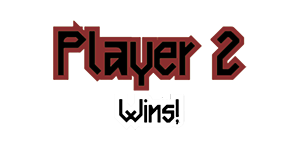
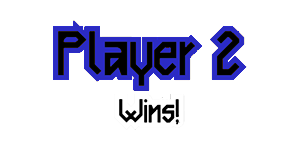
(#60) made the player 2 wins screen highlight player 2 in blue, and made player 1 red, and shoot red bullets, and player 2 blue, and shoot blue bullets

Changed region(s): [[0.15, 0.1333, 0.69, 0.6133], [0.69, 0.16, 0.84, 0.5333]]

diff --git a/area.py b/area.py
@@ -330,12 +330,12 @@ class Window(QGraphicsScene):
         self.removeItem(self.player)
 
         # player 1 is one more pixel to the right so they line up better at the start
-        self.player1 = player.player("Images/fighter-blue.png")
+        self.player1 = player.player("Images/fighter-red.png")
         self.player1.setPos(self.width()/2-69, self.height()-100)
         self.addItem(self.player1)
         self.player1.ammo = 8
         
-        self.player2 = player.player("Images/fighter-red-down.png")
+        self.player2 = player.player("Images/fighter-blue-down.png")
         self.player2.setPos(self.width()/2-68, self.height()-650)
         self.addItem(self.player2)
         self.player2.ammo = 8
